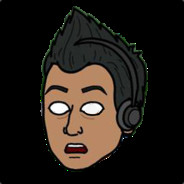
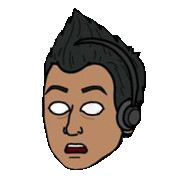
updating transparent ashu build

diff --git a/assets/index-32327c52.js b/assets/index-32327c52.js
@@ -41,4 +41,4 @@ Error generating stack: `+o.message+`
     who just came here to check out work experience, you can click on "Résumé", 
     and download the pdf from there.`,TECH:`But, If you're somebody with a frontend calibre looking to scope out
     some talent, the portfolio is hidden right in front of you. You just
-    have to be a really good frontend dev to uncover it.`,SUB:"Ashu's got his eye on your mouse! to see if you can figure it out :)"},Dr={RESUME:"https://ashu2099.github.io/WebProjectBuilds/AshuResume",GIVE_UP:"https://www.google.com/search?q=how+to+be+a+better+frontend+developer",GITHUB:"https://github.com/ashu2099/",LINKEDIN:"https://in.linkedin.com/in/ashutosh-dwivedi-b8570b127",BEHANCE:"https://www.behance.net/Ashdwi2099"},Gp=e=>`https://ashu2099.github.io/WebProjectBuilds/${e}/`,Kp=e=>`url(./${e}Thumb.jpg)`,Fc=[{name:"VidChipper",description:"A Web-Assembly powered website to Clip, Convert or Split Videos into equal parts for social media, right in the browser runtime, without any backend.",techStack:"FFmpeg.wasm, React 18, TailwindCSS, HeadlessUI, Vite, Blobs and file reader buffers."},{name:"ClientRegister",description:"A Mobile-first registry CRUD app with form validations that manages and searches clientele policies for insurance agents.",techStack:"Angular 8, Firebase DB, Cloud Firestore, Firebase SDK APIs"},{name:"AshuResume",description:"A Responsive website that utilizes CSS3 print media queries to provide a printable A4-sized resume.",techStack:"Angular 8, Bootstrap Utilities, CSS3 Print Media Queries"},{name:"FilteredApparels",description:"An E-commerce style product gallery with options to search, sort and filter.",techStack:"React 17, Redux Toolkit, React-redux"},{name:"Forecaster",description:"A website that consumes OpenWeatherMap APIs to provide weather forecast for the next 5 days",techStack:"AngularJS, Bootstrap3, OpenWeathermap API"},{name:"TheDotaShop",description:"A lean e-commerce template with an in-memory Shopping Cart & state management",techStack:"Angular 8, RxJS, Bootstrap 4"}],ys=(e,t,n)=>e<0?t:e>100?n:t+e*(n-t),ws=e=>{const t=document.getElementById("landingPage"),n=e.pageX/window.innerWidth,r=e.pageY/window.innerHeight,l=Math.floor(ys(n,48,160)),o=Math.floor(ys(r,32,64));t.style.backgroundColor=`rgb(${l}, 0, ${o})`},Yp=async()=>{try{const e=Fc.map(t=>new Promise(n=>{const r=new Image;r.src=`./${t.name}Thumb.jpg`,r.onload=n()}));await Promise.all(e)}catch(e){console.log(e)}},Xp=()=>{const e=t=>{window.open(t,"_blank")};return X.useLayoutEffect(()=>{const t=document.getElementById("landingPage");return t.addEventListener("mousemove",ws),()=>{t.removeEventListener("mousemove",ws)}},[]),X.useEffect(()=>{window.activateAshuFace=!1,setTimeout(Yp,2e3)},[]),{openLinkInNewTab:e}};var Dc={color:void 0,size:void 0,className:void 0,style:void 0,attr:void 0},ks=It.createContext&&It.createContext(Dc),wt=globalThis&&globalThis.__assign||function(){return wt=Object.assign||function(e){for(var t,n=1,r=arguments.length;n<r;n++){t=arguments[n];for(var l in t)Object.prototype.hasOwnProperty.call(t,l)&&(e[l]=t[l])}return e},wt.apply(this,arguments)},Zp=globalThis&&globalThis.__rest||function(e,t){var n={};for(var r in e)Object.prototype.hasOwnProperty.call(e,r)&&t.indexOf(r)<0&&(n[r]=e[r]);if(e!=null&&typeof Object.getOwnPropertySymbols=="function")for(var l=0,r=Object.getOwnPropertySymbols(e);l<r.length;l++)t.indexOf(r[l])<0&&Object.prototype.propertyIsEnumerable.call(e,r[l])&&(n[r[l]]=e[r[l]]);return n};function Ac(e){return e&&e.map(function(t,n){return It.createElement(t.tag,wt({key:n},t.attr),Ac(t.child))})}function Cn(e){return function(t){return It.createElement(Jp,wt({attr:wt({},e.attr)},t),Ac(e.child))}}function Jp(e){var t=function(n){var r=e.attr,l=e.size,o=e.title,i=Zp(e,["attr","size","title"]),u=l||n.size||"1em",s;return n.className&&(s=n.className),e.className&&(s=(s?s+" ":"")+e.className),It.createElement("svg",wt({stroke:"currentColor",fill:"currentColor",strokeWidth:"0"},n.attr,r,i,{className:s,style:wt(wt({color:e.color||n.color},n.style),e.style),height:u,width:u,xmlns:"http://www.w3.org/2000/svg"}),o&&It.createElement("title",null,o),e.children)};return ks!==void 0?It.createElement(ks.Consumer,null,function(n){return t(n)}):t(Dc)}function qp(e){return Cn({tag:"svg",attr:{viewBox:"0 0 448 512"},child:[{tag:"path",attr:{d:"M186.5 293c0 19.3-14 25.4-31.2 25.4h-45.1v-52.9h46c18.6.1 30.3 7.8 30.3 27.5zm-7.7-82.3c0-17.7-13.7-21.9-28.9-21.9h-39.6v44.8H153c15.1 0 25.8-6.6 25.8-22.9zm132.3 23.2c-18.3 0-30.5 11.4-31.7 29.7h62.2c-1.7-18.5-11.3-29.7-30.5-29.7zM448 80v352c0 26.5-21.5 48-48 48H48c-26.5 0-48-21.5-48-48V80c0-26.5 21.5-48 48-48h352c26.5 0 48 21.5 48 48zM271.7 185h77.8v-18.9h-77.8V185zm-43 110.3c0-24.1-11.4-44.9-35-51.6 17.2-8.2 26.2-17.7 26.2-37 0-38.2-28.5-47.5-61.4-47.5H68v192h93.1c34.9-.2 67.6-16.9 67.6-55.9zM380 280.5c0-41.1-24.1-75.4-67.6-75.4-42.4 0-71.1 31.8-71.1 73.6 0 43.3 27.3 73 71.1 73 33.2 0 54.7-14.9 65.1-46.8h-33.7c-3.7 11.9-18.6 18.1-30.2 18.1-22.4 0-34.1-13.1-34.1-35.3h100.2c.1-2.3.3-4.8.3-7.2z"}}]})(e)}function bp(e){return Cn({tag:"svg",attr:{viewBox:"0 0 496 512"},child:[{tag:"path",attr:{d:"M165.9 397.4c0 2-2.3 3.6-5.2 3.6-3.3.3-5.6-1.3-5.6-3.6 0-2 2.3-3.6 5.2-3.6 3-.3 5.6 1.3 5.6 3.6zm-31.1-4.5c-.7 2 1.3 4.3 4.3 4.9 2.6 1 5.6 0 6.2-2s-1.3-4.3-4.3-5.2c-2.6-.7-5.5.3-6.2 2.3zm44.2-1.7c-2.9.7-4.9 2.6-4.6 4.9.3 2 2.9 3.3 5.9 2.6 2.9-.7 4.9-2.6 4.6-4.6-.3-1.9-3-3.2-5.9-2.9zM244.8 8C106.1 8 0 113.3 0 252c0 110.9 69.8 205.8 169.5 239.2 12.8 2.3 17.3-5.6 17.3-12.1 0-6.2-.3-40.4-.3-61.4 0 0-70 15-84.7-29.8 0 0-11.4-29.1-27.8-36.6 0 0-22.9-15.7 1.6-15.4 0 0 24.9 2 38.6 25.8 21.9 38.6 58.6 27.5 72.9 20.9 2.3-16 8.8-27.1 16-33.7-55.9-6.2-112.3-14.3-112.3-110.5 0-27.5 7.6-41.3 23.6-58.9-2.6-6.5-11.1-33.3 2.6-67.9 20.9-6.5 69 27 69 27 20-5.6 41.5-8.5 62.8-8.5s42.8 2.9 62.8 8.5c0 0 48.1-33.6 69-27 13.7 34.7 5.2 61.4 2.6 67.9 16 17.7 25.8 31.5 25.8 58.9 0 96.5-58.9 104.2-114.8 110.5 9.2 7.9 17 22.9 17 46.4 0 33.7-.3 75.4-.3 83.6 0 6.5 4.6 14.4 17.3 12.1C428.2 457.8 496 362.9 496 252 496 113.3 383.5 8 244.8 8zM97.2 352.9c-1.3 1-1 3.3.7 5.2 1.6 1.6 3.9 2.3 5.2 1 1.3-1 1-3.3-.7-5.2-1.6-1.6-3.9-2.3-5.2-1zm-10.8-8.1c-.7 1.3.3 2.9 2.3 3.9 1.6 1 3.6.7 4.3-.7.7-1.3-.3-2.9-2.3-3.9-2-.6-3.6-.3-4.3.7zm32.4 35.6c-1.6 1.3-1 4.3 1.3 6.2 2.3 2.3 5.2 2.6 6.5 1 1.3-1.3.7-4.3-1.3-6.2-2.2-2.3-5.2-2.6-6.5-1zm-11.4-14.7c-1.6 1-1.6 3.6 0 5.9 1.6 2.3 4.3 3.3 5.6 2.3 1.6-1.3 1.6-3.9 0-6.2-1.4-2.3-4-3.3-5.6-2z"}}]})(e)}function em(e){return Cn({tag:"svg",attr:{viewBox:"0 0 448 512"},child:[{tag:"path",attr:{d:"M416 32H31.9C14.3 32 0 46.5 0 64.3v383.4C0 465.5 14.3 480 31.9 480H416c17.6 0 32-14.5 32-32.3V64.3c0-17.8-14.4-32.3-32-32.3zM135.4 416H69V202.2h66.5V416zm-33.2-243c-21.3 0-38.5-17.3-38.5-38.5S80.9 96 102.2 96c21.2 0 38.5 17.3 38.5 38.5 0 21.3-17.2 38.5-38.5 38.5zm282.1 243h-66.4V312c0-24.8-.5-56.7-34.5-56.7-34.6 0-39.9 27-39.9 54.9V416h-66.4V202.2h63.7v29.2h.9c8.9-16.8 30.6-34.5 62.9-34.5 67.2 0 79.7 44.3 79.7 101.9V416z"}}]})(e)}function tm(e){return Cn({tag:"svg",attr:{viewBox:"0 0 384 512"},child:[{tag:"path",attr:{d:"M224 136V0H24C10.7 0 0 10.7 0 24v464c0 13.3 10.7 24 24 24h336c13.3 0 24-10.7 24-24V160H248c-13.2 0-24-10.8-24-24zm76.45 211.36l-96.42 95.7c-6.65 6.61-17.39 6.61-24.04 0l-96.42-95.7C73.42 337.29 80.54 320 94.82 320H160v-80c0-8.84 7.16-16 16-16h32c8.84 0 16 7.16 16 16v80h65.18c14.28 0 21.4 17.29 11.27 27.36zM377 105L279.1 7c-4.5-4.5-10.6-7-17-7H256v128h128v-6.1c0-6.3-2.5-12.4-7-16.9z"}}]})(e)}function nm(e){return Cn({tag:"svg",attr:{viewBox:"0 0 512 512"},child:[{tag:"path",attr:{d:"M512 176.001C512 273.203 433.202 352 336 352c-11.22 0-22.19-1.062-32.827-3.069l-24.012 27.014A23.999 23.999 0 0 1 261.223 384H224v40c0 13.255-10.745 24-24 24h-40v40c0 13.255-10.745 24-24 24H24c-13.255 0-24-10.745-24-24v-78.059c0-6.365 2.529-12.47 7.029-16.971l161.802-161.802C163.108 213.814 160 195.271 160 176 160 78.798 238.797.001 335.999 0 433.488-.001 512 78.511 512 176.001zM336 128c0 26.51 21.49 48 48 48s48-21.49 48-48-21.49-48-48-48-48 21.49-48 48z"}}]})(e)}const rm=({visitorGaveUp:e})=>{const{openLinkInNewTab:t}=Xp();return C.jsxs("div",{id:"landingPage",className:["absolute h-full w-full overflow-y-auto p-3","flex flex-1 flex-col items-center md:justify-center","text-center text-white"].join(" "),children:[!(window!=null&&window.activateAshuFace)&&C.jsx(hp,{}),(window==null?void 0:window.activateAshuFace)&&C.jsx(gp,{}),C.jsx("div",{className:"text-3xl font-bold",children:"Ashutosh Dwivedi"}),C.jsx("div",{className:"text-xl font-medium",children:"Senior Frontend Engineer"}),C.jsxs("div",{className:"max-w-2xl",children:[C.jsx("div",{className:"mt-4",children:We==null?void 0:We.HR}),C.jsx("div",{className:"mt-4",children:We==null?void 0:We.TECH}),C.jsx("div",{className:"mt-4 italic ",children:We==null?void 0:We.SUB})]}),C.jsxs("div",{id:"buttons-container",className:"mt-2 flex flex-wrap justify-center",children:[C.jsx(Yt,{classOverride:"m-1 bg-pink-700 hover:bg-pink-500",onClick:()=>t(Dr.RESUME),children:C.jsxs("div",{className:"flex w-28 items-center justify-center",children:[C.jsx(tm,{className:"fill-white text-base"}),C.jsx("div",{className:"ml-1 text-base",children:"Résumé"})]})}),C.jsx(Yt,{classOverride:"m-1 bg-pink-700 hover:bg-pink-500",onClick:e,children:C.jsxs("div",{className:"flex w-28 items-center justify-center",children:[C.jsx(nm,{className:"fill-white text-base"}),C.jsx("div",{className:"ml-1 text-base",children:"I Give Up"})]})})]}),C.jsxs("div",{id:"socials",className:"mt-1 flex flex-wrap justify-center",children:[C.jsx(Yt,{classOverride:"m-1 p-1.5 bg-linkedin hover:bg-white hover:text-gray-900 group",onClick:()=>t(Dr.LINKEDIN),children:C.jsxs("div",{className:"flex w-20 items-center justify-center",children:[C.jsx(em,{className:"fill-white text-base group-hover:fill-gray-900"}),C.jsx("div",{className:"ml-1 text-sm",children:"LinkedIn"})]})}),C.jsx(Yt,{classOverride:"m-1 p-1.5 bg-githubbg hover:bg-white text-gray-900 group",onClick:()=>t(Dr.GITHUB),children:C.jsxs("div",{className:"flex w-20 items-center justify-center",children:[C.jsx(bp,{className:"fill-gray-900 text-base"}),C.jsx("div",{className:"ml-1 text-sm",children:"GitHub"})]})}),C.jsx(Yt,{classOverride:"m-1 p-1.5 bg-behance hover:bg-white hover:text-gray-900 group",onClick:()=>t(Dr.BEHANCE),children:C.jsxs("div",{className:"flex w-20 items-center justify-center",children:[C.jsx(qp,{className:"fill-white text-base group-hover:fill-gray-900"}),C.jsx("div",{className:"ml-1 text-sm",children:"Behance"})]})})]})]})};function lm(e){return Cn({tag:"svg",attr:{viewBox:"0 0 1024 1024"},child:[{tag:"path",attr:{d:"M793 242H366v-74c0-6.7-7.7-10.4-12.9-6.3l-142 112a8 8 0 0 0 0 12.6l142 112c5.2 4.1 12.9.4 12.9-6.3v-74h415v470H175c-4.4 0-8 3.6-8 8v60c0 4.4 3.6 8 8 8h618c35.3 0 64-28.7 64-64V306c0-35.3-28.7-64-64-64z"}}]})(e)}const om=(e,t)=>{let n;return(...r)=>{n&&clearTimeout(n),n=setTimeout(()=>{e(...r)},t)}},ii=()=>{var e;return((e=window==null?void 0:window.navigator)==null?void 0:e.maxTouchPoints)===0},im=()=>ii()?"translate-y-0":"-translate-y-10",um=()=>{const[e,t]=X.useState(!1),[n,r]=X.useState(!1),[l,o]=X.useState(im()),i=X.useCallback(p=>{window.open(Gp(p),"_blank")},[]),u=X.useCallback(p=>{p.stopPropagation(),t(m=>!m)},[]),s=X.useCallback(()=>{ii()&&(t(p=>(r(p),!1)),o("translate-y-0"))},[]),c=X.useCallback(()=>{ii()&&(n&&t(!0),o("-translate-y-10"))},[n]),h=X.useCallback(()=>{t(!1),r(!1),window.innerWidth<=1024&&o("-translate-y-10"),window.innerWidth>1024&&o("translate-y-0")},[]);return X.useEffect(()=>{var m;const p=om(h,100);return window.addEventListener("resize",p),(m=screen==null?void 0:screen.orientation)==null||m.addEventListener("change",p),()=>{var g;window.removeEventListener("resize",p),(g=screen==null?void 0:screen.orientation)==null||g.removeEventListener("change",p)}},[h]),{projectClicked:i,descriptionClicked:u,isDescriptionOpened:e,mouseLeftProject:s,mouseEnteredProject:c,translateClass:l}};function sm({project:e}){const{projectClicked:t,descriptionClicked:n,isDescriptionOpened:r,mouseLeftProject:l,mouseEnteredProject:o,translateClass:i}=um();return C.jsxs("div",{className:["group/project relative flex","cursor-pointer overflow-hidden","w-full sm:w-1/2 lg:w-1/3","h-1/3 sm:h-auto"].join(" "),onClick:()=>t(e.name),onMouseLeave:l,onMouseEnter:o,children:[C.jsx("div",{className:["h-full w-full","bg-cover bg-center bg-no-repeat","transition-transform duration-200 group-hover/project:scale-125"].join(" "),style:{backgroundImage:Kp(e.name)}}),C.jsx("div",{className:["absolute top-full max-h-full","flex w-full","transition-transform duration-300",`${r?"-translate-y-full":i}`].join(" "),children:C.jsxs("div",{className:["flex flex-1 flex-col overflow-y-auto","bg-black/80 px-3 py-2","text-white"].join(" "),children:[C.jsxs("div",{className:"flex flex-1 justify-between",children:[C.jsx("span",{className:"",children:e.name}),C.jsx("button",{type:"button",className:"border border-white px-1 text-xs hover:bg-white hover:text-black",onClick:u=>n(u,e),children:r?"Close":"Description"})]}),C.jsx("div",{className:"mt-3 border-t border-white pt-3 text-sm",children:e.description}),C.jsx("div",{className:"mt-3",children:`Tech: ${e.techStack}`})]})})]},e.name)}const am=({goBackToLandingPage:e})=>C.jsxs("div",{id:"projectsPage",className:"relative flex flex-1 flex-col",children:[C.jsx("div",{className:"flex flex-1 flex-wrap overflow-y-auto",children:Fc.map(t=>C.jsx(sm,{project:t},t.name))}),C.jsx(Yt,{classOverride:["bg-pink-700 hover:bg-pink-500","lg:absolute lg:left-4 lg:top-4","border-0 lg:border-2"].join(" "),onClick:e,children:C.jsxs("div",{className:"flex items-center justify-center",children:[C.jsx(lm,{className:" text-white"}),C.jsx("div",{className:"ml-1 text-base text-white",children:"Go Back"})]})}),C.jsx("span",{className:"purging-el hidden -translate-y-10"})]}),cm=()=>{const[e,t]=X.useState(!1),n=X.useCallback(()=>{t(!0),setTimeout(()=>{const l=document.getElementById("landingPage"),o=document.getElementById("projectsPage");l.style.transform="translateY(-87.5%) scale(0.75)",o.style.transform="none"},200)},[]);return{renderProjectsPage:e,visitorGaveUp:n,goBackToLandingPage:()=>{const l=document.getElementById("landingPage"),o=document.getElementById("projectsPage");l.style.transform="none",o.style.transform="translateY(87.5%) scale(0.75)",setTimeout(()=>{t(!1)},1e3)}}};function dm(){const{renderProjectsPage:e,visitorGaveUp:t,goBackToLandingPage:n}=cm();return C.jsxs("div",{className:"relative flex flex-1 overflow-hidden bg-pink-700",children:[C.jsx(rm,{visitorGaveUp:t}),e&&C.jsx(am,{goBackToLandingPage:n})]})}const fm=()=>C.jsx(dm,{});ao.createRoot(document.getElementById("root")).render(C.jsx(fm,{}));
+    have to be a really good frontend dev to uncover it.`,SUB:"Ashu's got his eye on your mouse! to see if you can figure it out :)"},Dr={RESUME:"https://ashu2099.github.io/WebProjectBuilds/AshuResume",GIVE_UP:"https://www.google.com/search?q=how+to+be+a+better+frontend+developer",GITHUB:"https://github.com/ashu2099/",LINKEDIN:"https://in.linkedin.com/in/ashutosh-dwivedi-b8570b127",BEHANCE:"https://www.behance.net/Ashdwi2099"},Gp=e=>`https://ashu2099.github.io/WebProjectBuilds/${e}/`,Kp=e=>`url(./${e}Thumb.jpg)`,Fc=[{name:"VidChipper",description:"A Web-Assembly powered website to Clip, Convert or Split Videos into equal parts for social media, right in the browser runtime, without any backend.",techStack:"FFmpeg.wasm, React 18, TailwindCSS, HeadlessUI, Vite, Blobs and file reader buffers."},{name:"ClientRegister",description:"A Mobile-first registry CRUD app with form validations that manages and searches clientele policies for insurance agents.",techStack:"Angular 8, Firebase DB, Cloud Firestore, Firebase SDK APIs"},{name:"AshuResume",description:"A Responsive website that utilizes CSS3 print media queries to provide a printable A4-sized resume.",techStack:"Angular 8, Bootstrap Utilities, CSS3 Print Media Queries"},{name:"FilteredApparels",description:"An E-commerce style product gallery with options to search, sort and filter.",techStack:"React 17, Redux Toolkit, React-redux"},{name:"Forecaster",description:"A website that consumes OpenWeatherMap APIs to provide weather forecast for the next 5 days",techStack:"AngularJS, Bootstrap3, OpenWeathermap API"},{name:"TheDotaShop",description:"A lean e-commerce template with an in-memory Shopping Cart & state management",techStack:"Angular 8, RxJS, Bootstrap 4"}],ys=(e,t,n)=>e<0?t:e>100?n:t+e*(n-t),ws=e=>{const t=document.getElementById("landingPage"),n=e.pageX/window.innerWidth,r=e.pageY/window.innerHeight,l=Math.floor(ys(n,128,192)),o=Math.floor(ys(r,48,80));t.style.backgroundColor=`rgb(${l}, 0, ${o})`},Yp=async()=>{try{const e=Fc.map(t=>new Promise(n=>{const r=new Image;r.src=`./${t.name}Thumb.jpg`,r.onload=n()}));await Promise.all(e)}catch(e){console.log(e)}},Xp=()=>{const e=t=>{window.open(t,"_blank")};return X.useLayoutEffect(()=>{const t=document.getElementById("landingPage");return t.addEventListener("mousemove",ws),()=>{t.removeEventListener("mousemove",ws)}},[]),X.useEffect(()=>{window.activateAshuFace=!1,setTimeout(Yp,2e3)},[]),{openLinkInNewTab:e}};var Dc={color:void 0,size:void 0,className:void 0,style:void 0,attr:void 0},ks=It.createContext&&It.createContext(Dc),wt=globalThis&&globalThis.__assign||function(){return wt=Object.assign||function(e){for(var t,n=1,r=arguments.length;n<r;n++){t=arguments[n];for(var l in t)Object.prototype.hasOwnProperty.call(t,l)&&(e[l]=t[l])}return e},wt.apply(this,arguments)},Zp=globalThis&&globalThis.__rest||function(e,t){var n={};for(var r in e)Object.prototype.hasOwnProperty.call(e,r)&&t.indexOf(r)<0&&(n[r]=e[r]);if(e!=null&&typeof Object.getOwnPropertySymbols=="function")for(var l=0,r=Object.getOwnPropertySymbols(e);l<r.length;l++)t.indexOf(r[l])<0&&Object.prototype.propertyIsEnumerable.call(e,r[l])&&(n[r[l]]=e[r[l]]);return n};function Ac(e){return e&&e.map(function(t,n){return It.createElement(t.tag,wt({key:n},t.attr),Ac(t.child))})}function Cn(e){return function(t){return It.createElement(Jp,wt({attr:wt({},e.attr)},t),Ac(e.child))}}function Jp(e){var t=function(n){var r=e.attr,l=e.size,o=e.title,i=Zp(e,["attr","size","title"]),u=l||n.size||"1em",s;return n.className&&(s=n.className),e.className&&(s=(s?s+" ":"")+e.className),It.createElement("svg",wt({stroke:"currentColor",fill:"currentColor",strokeWidth:"0"},n.attr,r,i,{className:s,style:wt(wt({color:e.color||n.color},n.style),e.style),height:u,width:u,xmlns:"http://www.w3.org/2000/svg"}),o&&It.createElement("title",null,o),e.children)};return ks!==void 0?It.createElement(ks.Consumer,null,function(n){return t(n)}):t(Dc)}function qp(e){return Cn({tag:"svg",attr:{viewBox:"0 0 448 512"},child:[{tag:"path",attr:{d:"M186.5 293c0 19.3-14 25.4-31.2 25.4h-45.1v-52.9h46c18.6.1 30.3 7.8 30.3 27.5zm-7.7-82.3c0-17.7-13.7-21.9-28.9-21.9h-39.6v44.8H153c15.1 0 25.8-6.6 25.8-22.9zm132.3 23.2c-18.3 0-30.5 11.4-31.7 29.7h62.2c-1.7-18.5-11.3-29.7-30.5-29.7zM448 80v352c0 26.5-21.5 48-48 48H48c-26.5 0-48-21.5-48-48V80c0-26.5 21.5-48 48-48h352c26.5 0 48 21.5 48 48zM271.7 185h77.8v-18.9h-77.8V185zm-43 110.3c0-24.1-11.4-44.9-35-51.6 17.2-8.2 26.2-17.7 26.2-37 0-38.2-28.5-47.5-61.4-47.5H68v192h93.1c34.9-.2 67.6-16.9 67.6-55.9zM380 280.5c0-41.1-24.1-75.4-67.6-75.4-42.4 0-71.1 31.8-71.1 73.6 0 43.3 27.3 73 71.1 73 33.2 0 54.7-14.9 65.1-46.8h-33.7c-3.7 11.9-18.6 18.1-30.2 18.1-22.4 0-34.1-13.1-34.1-35.3h100.2c.1-2.3.3-4.8.3-7.2z"}}]})(e)}function bp(e){return Cn({tag:"svg",attr:{viewBox:"0 0 496 512"},child:[{tag:"path",attr:{d:"M165.9 397.4c0 2-2.3 3.6-5.2 3.6-3.3.3-5.6-1.3-5.6-3.6 0-2 2.3-3.6 5.2-3.6 3-.3 5.6 1.3 5.6 3.6zm-31.1-4.5c-.7 2 1.3 4.3 4.3 4.9 2.6 1 5.6 0 6.2-2s-1.3-4.3-4.3-5.2c-2.6-.7-5.5.3-6.2 2.3zm44.2-1.7c-2.9.7-4.9 2.6-4.6 4.9.3 2 2.9 3.3 5.9 2.6 2.9-.7 4.9-2.6 4.6-4.6-.3-1.9-3-3.2-5.9-2.9zM244.8 8C106.1 8 0 113.3 0 252c0 110.9 69.8 205.8 169.5 239.2 12.8 2.3 17.3-5.6 17.3-12.1 0-6.2-.3-40.4-.3-61.4 0 0-70 15-84.7-29.8 0 0-11.4-29.1-27.8-36.6 0 0-22.9-15.7 1.6-15.4 0 0 24.9 2 38.6 25.8 21.9 38.6 58.6 27.5 72.9 20.9 2.3-16 8.8-27.1 16-33.7-55.9-6.2-112.3-14.3-112.3-110.5 0-27.5 7.6-41.3 23.6-58.9-2.6-6.5-11.1-33.3 2.6-67.9 20.9-6.5 69 27 69 27 20-5.6 41.5-8.5 62.8-8.5s42.8 2.9 62.8 8.5c0 0 48.1-33.6 69-27 13.7 34.7 5.2 61.4 2.6 67.9 16 17.7 25.8 31.5 25.8 58.9 0 96.5-58.9 104.2-114.8 110.5 9.2 7.9 17 22.9 17 46.4 0 33.7-.3 75.4-.3 83.6 0 6.5 4.6 14.4 17.3 12.1C428.2 457.8 496 362.9 496 252 496 113.3 383.5 8 244.8 8zM97.2 352.9c-1.3 1-1 3.3.7 5.2 1.6 1.6 3.9 2.3 5.2 1 1.3-1 1-3.3-.7-5.2-1.6-1.6-3.9-2.3-5.2-1zm-10.8-8.1c-.7 1.3.3 2.9 2.3 3.9 1.6 1 3.6.7 4.3-.7.7-1.3-.3-2.9-2.3-3.9-2-.6-3.6-.3-4.3.7zm32.4 35.6c-1.6 1.3-1 4.3 1.3 6.2 2.3 2.3 5.2 2.6 6.5 1 1.3-1.3.7-4.3-1.3-6.2-2.2-2.3-5.2-2.6-6.5-1zm-11.4-14.7c-1.6 1-1.6 3.6 0 5.9 1.6 2.3 4.3 3.3 5.6 2.3 1.6-1.3 1.6-3.9 0-6.2-1.4-2.3-4-3.3-5.6-2z"}}]})(e)}function em(e){return Cn({tag:"svg",attr:{viewBox:"0 0 448 512"},child:[{tag:"path",attr:{d:"M416 32H31.9C14.3 32 0 46.5 0 64.3v383.4C0 465.5 14.3 480 31.9 480H416c17.6 0 32-14.5 32-32.3V64.3c0-17.8-14.4-32.3-32-32.3zM135.4 416H69V202.2h66.5V416zm-33.2-243c-21.3 0-38.5-17.3-38.5-38.5S80.9 96 102.2 96c21.2 0 38.5 17.3 38.5 38.5 0 21.3-17.2 38.5-38.5 38.5zm282.1 243h-66.4V312c0-24.8-.5-56.7-34.5-56.7-34.6 0-39.9 27-39.9 54.9V416h-66.4V202.2h63.7v29.2h.9c8.9-16.8 30.6-34.5 62.9-34.5 67.2 0 79.7 44.3 79.7 101.9V416z"}}]})(e)}function tm(e){return Cn({tag:"svg",attr:{viewBox:"0 0 384 512"},child:[{tag:"path",attr:{d:"M224 136V0H24C10.7 0 0 10.7 0 24v464c0 13.3 10.7 24 24 24h336c13.3 0 24-10.7 24-24V160H248c-13.2 0-24-10.8-24-24zm76.45 211.36l-96.42 95.7c-6.65 6.61-17.39 6.61-24.04 0l-96.42-95.7C73.42 337.29 80.54 320 94.82 320H160v-80c0-8.84 7.16-16 16-16h32c8.84 0 16 7.16 16 16v80h65.18c14.28 0 21.4 17.29 11.27 27.36zM377 105L279.1 7c-4.5-4.5-10.6-7-17-7H256v128h128v-6.1c0-6.3-2.5-12.4-7-16.9z"}}]})(e)}function nm(e){return Cn({tag:"svg",attr:{viewBox:"0 0 512 512"},child:[{tag:"path",attr:{d:"M512 176.001C512 273.203 433.202 352 336 352c-11.22 0-22.19-1.062-32.827-3.069l-24.012 27.014A23.999 23.999 0 0 1 261.223 384H224v40c0 13.255-10.745 24-24 24h-40v40c0 13.255-10.745 24-24 24H24c-13.255 0-24-10.745-24-24v-78.059c0-6.365 2.529-12.47 7.029-16.971l161.802-161.802C163.108 213.814 160 195.271 160 176 160 78.798 238.797.001 335.999 0 433.488-.001 512 78.511 512 176.001zM336 128c0 26.51 21.49 48 48 48s48-21.49 48-48-21.49-48-48-48-48 21.49-48 48z"}}]})(e)}const rm=({visitorGaveUp:e})=>{const{openLinkInNewTab:t}=Xp();return C.jsxs("div",{id:"landingPage",className:["absolute h-full w-full overflow-y-auto p-3","flex flex-1 flex-col items-center md:justify-center","text-center text-white"].join(" "),children:[!(window!=null&&window.activateAshuFace)&&C.jsx(hp,{}),(window==null?void 0:window.activateAshuFace)&&C.jsx(gp,{}),C.jsx("div",{className:"text-3xl font-bold",children:"Ashutosh Dwivedi"}),C.jsx("div",{className:"text-xl font-medium",children:"Senior Frontend Engineer"}),C.jsxs("div",{className:"max-w-2xl",children:[C.jsx("div",{className:"mt-4",children:We==null?void 0:We.HR}),C.jsx("div",{className:"mt-4",children:We==null?void 0:We.TECH}),C.jsx("div",{className:"mt-4 italic ",children:We==null?void 0:We.SUB})]}),C.jsxs("div",{id:"buttons-container",className:"mt-2 flex flex-wrap justify-center",children:[C.jsx(Yt,{classOverride:"m-1 bg-pink-700 hover:bg-pink-500",onClick:()=>t(Dr.RESUME),children:C.jsxs("div",{className:"flex w-28 items-center justify-center",children:[C.jsx(tm,{className:"fill-white text-base"}),C.jsx("div",{className:"ml-1 text-base",children:"Résumé"})]})}),C.jsx(Yt,{classOverride:"m-1 bg-pink-700 hover:bg-pink-500",onClick:e,children:C.jsxs("div",{className:"flex w-28 items-center justify-center",children:[C.jsx(nm,{className:"fill-white text-base"}),C.jsx("div",{className:"ml-1 text-base",children:"I Give Up"})]})})]}),C.jsxs("div",{id:"socials",className:"mt-1 flex flex-wrap justify-center",children:[C.jsx(Yt,{classOverride:"m-1 p-1.5 bg-linkedin hover:bg-white hover:text-gray-900 group",onClick:()=>t(Dr.LINKEDIN),children:C.jsxs("div",{className:"flex w-20 items-center justify-center",children:[C.jsx(em,{className:"fill-white text-base group-hover:fill-gray-900"}),C.jsx("div",{className:"ml-1 text-sm",children:"LinkedIn"})]})}),C.jsx(Yt,{classOverride:"m-1 p-1.5 bg-githubbg hover:bg-white text-gray-900 group",onClick:()=>t(Dr.GITHUB),children:C.jsxs("div",{className:"flex w-20 items-center justify-center",children:[C.jsx(bp,{className:"fill-gray-900 text-base"}),C.jsx("div",{className:"ml-1 text-sm",children:"GitHub"})]})}),C.jsx(Yt,{classOverride:"m-1 p-1.5 bg-behance hover:bg-white hover:text-gray-900 group",onClick:()=>t(Dr.BEHANCE),children:C.jsxs("div",{className:"flex w-20 items-center justify-center",children:[C.jsx(qp,{className:"fill-white text-base group-hover:fill-gray-900"}),C.jsx("div",{className:"ml-1 text-sm",children:"Behance"})]})})]})]})};function lm(e){return Cn({tag:"svg",attr:{viewBox:"0 0 1024 1024"},child:[{tag:"path",attr:{d:"M793 242H366v-74c0-6.7-7.7-10.4-12.9-6.3l-142 112a8 8 0 0 0 0 12.6l142 112c5.2 4.1 12.9.4 12.9-6.3v-74h415v470H175c-4.4 0-8 3.6-8 8v60c0 4.4 3.6 8 8 8h618c35.3 0 64-28.7 64-64V306c0-35.3-28.7-64-64-64z"}}]})(e)}const om=(e,t)=>{let n;return(...r)=>{n&&clearTimeout(n),n=setTimeout(()=>{e(...r)},t)}},ii=()=>{var e;return((e=window==null?void 0:window.navigator)==null?void 0:e.maxTouchPoints)===0},im=()=>ii()?"translate-y-0":"-translate-y-10",um=()=>{const[e,t]=X.useState(!1),[n,r]=X.useState(!1),[l,o]=X.useState(im()),i=X.useCallback(p=>{window.open(Gp(p),"_blank")},[]),u=X.useCallback(p=>{p.stopPropagation(),t(m=>!m)},[]),s=X.useCallback(()=>{ii()&&(t(p=>(r(p),!1)),o("translate-y-0"))},[]),c=X.useCallback(()=>{ii()&&(n&&t(!0),o("-translate-y-10"))},[n]),h=X.useCallback(()=>{t(!1),r(!1),window.innerWidth<=1024&&o("-translate-y-10"),window.innerWidth>1024&&o("translate-y-0")},[]);return X.useEffect(()=>{var m;const p=om(h,100);return window.addEventListener("resize",p),(m=screen==null?void 0:screen.orientation)==null||m.addEventListener("change",p),()=>{var g;window.removeEventListener("resize",p),(g=screen==null?void 0:screen.orientation)==null||g.removeEventListener("change",p)}},[h]),{projectClicked:i,descriptionClicked:u,isDescriptionOpened:e,mouseLeftProject:s,mouseEnteredProject:c,translateClass:l}};function sm({project:e}){const{projectClicked:t,descriptionClicked:n,isDescriptionOpened:r,mouseLeftProject:l,mouseEnteredProject:o,translateClass:i}=um();return C.jsxs("div",{className:["group/project relative flex","cursor-pointer overflow-hidden","w-full sm:w-1/2 lg:w-1/3","h-1/3 sm:h-auto"].join(" "),onClick:()=>t(e.name),onMouseLeave:l,onMouseEnter:o,children:[C.jsx("div",{className:["h-full w-full","bg-cover bg-center bg-no-repeat","transition-transform duration-200 group-hover/project:scale-125"].join(" "),style:{backgroundImage:Kp(e.name)}}),C.jsx("div",{className:["absolute top-full max-h-full","flex w-full","transition-transform duration-300",`${r?"-translate-y-full":i}`].join(" "),children:C.jsxs("div",{className:["flex flex-1 flex-col overflow-y-auto","bg-black/80 px-3 py-2","text-white"].join(" "),children:[C.jsxs("div",{className:"flex flex-1 justify-between",children:[C.jsx("span",{className:"",children:e.name}),C.jsx("button",{type:"button",className:"border border-white px-1 text-xs hover:bg-white hover:text-black",onClick:u=>n(u,e),children:r?"Close":"Description"})]}),C.jsx("div",{className:"mt-3 border-t border-white pt-3 text-sm",children:e.description}),C.jsx("div",{className:"mt-3",children:`Tech: ${e.techStack}`})]})})]},e.name)}const am=({goBackToLandingPage:e})=>C.jsxs("div",{id:"projectsPage",className:"relative flex flex-1 flex-col",children:[C.jsx("div",{className:"flex flex-1 flex-wrap overflow-y-auto",children:Fc.map(t=>C.jsx(sm,{project:t},t.name))}),C.jsx(Yt,{classOverride:["bg-pink-700 hover:bg-pink-500","lg:absolute lg:left-4 lg:top-4","border-0 lg:border-2"].join(" "),onClick:e,children:C.jsxs("div",{className:"flex items-center justify-center",children:[C.jsx(lm,{className:" text-white"}),C.jsx("div",{className:"ml-1 text-base text-white",children:"Go Back"})]})}),C.jsx("span",{className:"purging-el hidden -translate-y-10"})]}),cm=()=>{const[e,t]=X.useState(!1),n=X.useCallback(()=>{t(!0),setTimeout(()=>{const l=document.getElementById("landingPage"),o=document.getElementById("projectsPage");l.style.transform="translateY(-87.5%) scale(0.75)",o.style.transform="none"},200)},[]);return{renderProjectsPage:e,visitorGaveUp:n,goBackToLandingPage:()=>{const l=document.getElementById("landingPage"),o=document.getElementById("projectsPage");l.style.transform="none",o.style.transform="translateY(87.5%) scale(0.75)",setTimeout(()=>{t(!1)},1e3)}}};function dm(){const{renderProjectsPage:e,visitorGaveUp:t,goBackToLandingPage:n}=cm();return C.jsxs("div",{className:"relative flex flex-1 overflow-hidden bg-pink-700",children:[C.jsx(rm,{visitorGaveUp:t}),e&&C.jsx(am,{goBackToLandingPage:n})]})}const fm=()=>C.jsx(dm,{});ao.createRoot(document.getElementById("root")).render(C.jsx(fm,{}));

diff --git a/index.html b/index.html
@@ -13,7 +13,7 @@
     />
 
     <title>Ashutosh Dwivedi</title>
-    <script type="module" crossorigin src="/assets/index-2c266bc2.js"></script>
+    <script type="module" crossorigin src="/assets/index-32327c52.js"></script>
     <link rel="stylesheet" href="/assets/index-f4ccdd01.css">
   </head>
   <body class="antialiased">
